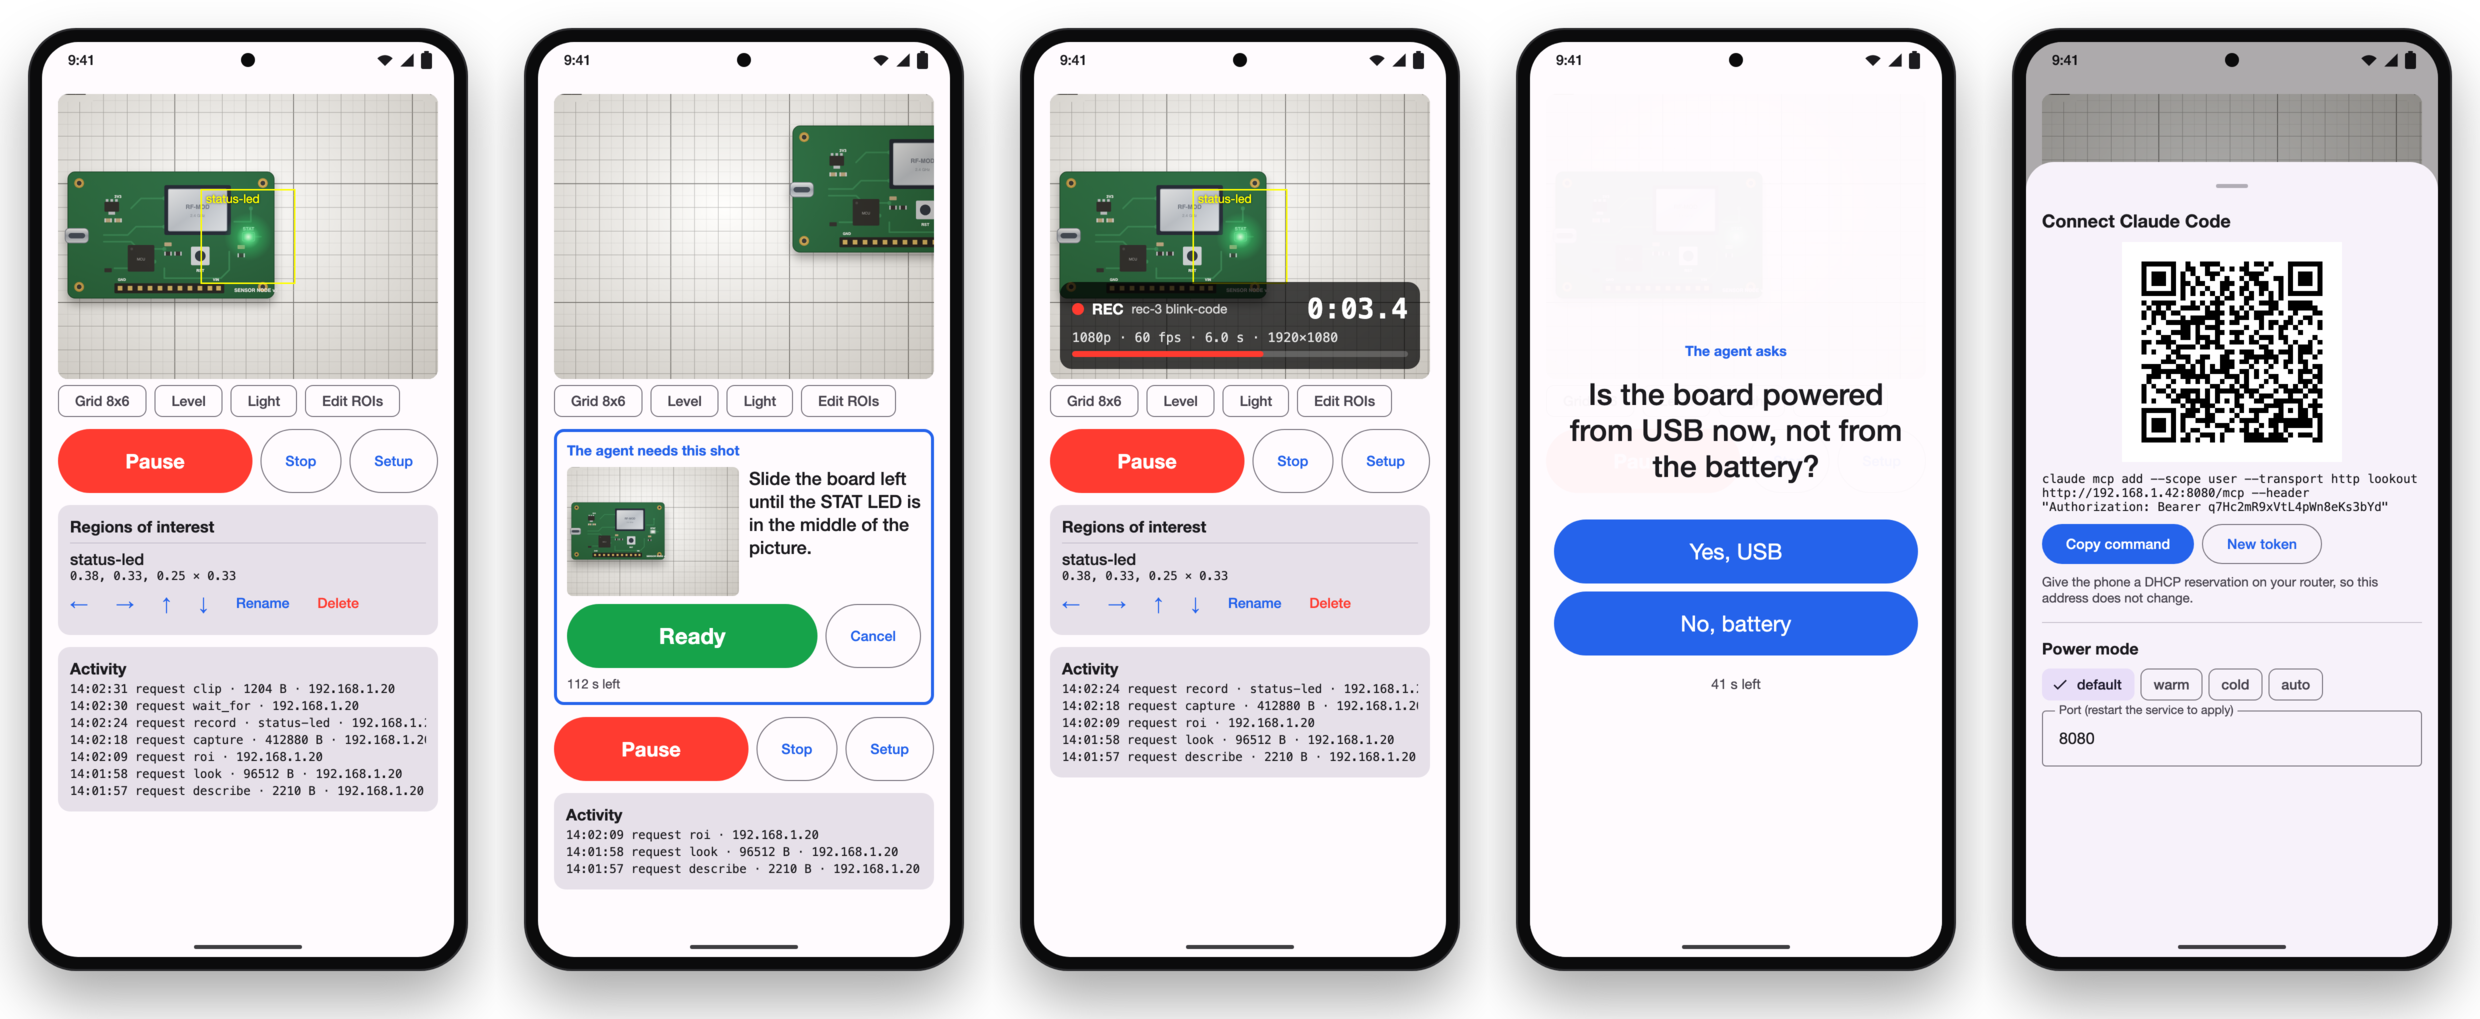
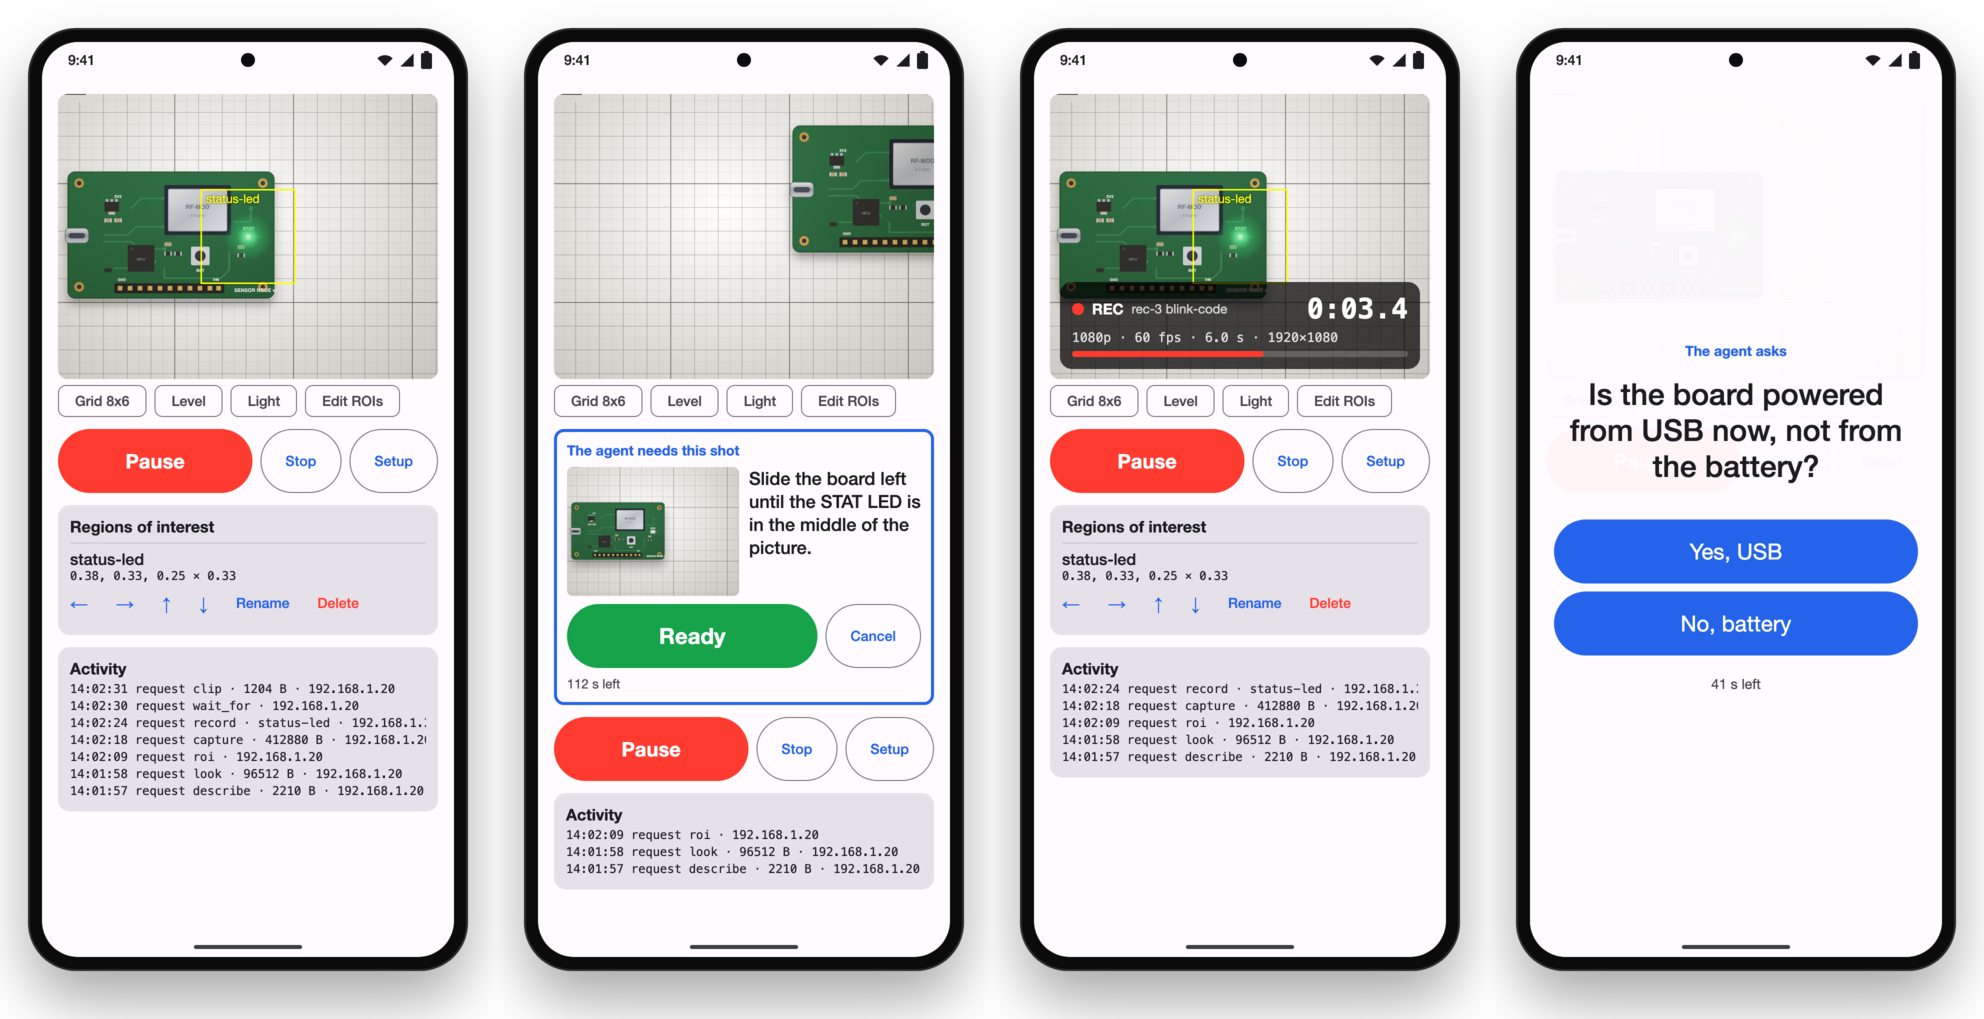
Say that Lookout works with any MCP agent
The Lookout page and its card no longer name one agent. The setup
steps use the skill and pairing, with a separate step for Tailscale.
The screenshot drops the old Setup screen with the QR code.

diff --git a/src/projects/lookout.ts b/src/projects/lookout.ts
@@ -3,9 +3,9 @@ import type { ProjectPageContent } from '../data.ts'
 export const lookout: ProjectPageContent = {
   tagline: 'Turn a spare Android phone into a camera that coding agents can see through.',
   summary: [
-    'A coding agent can build and flash firmware, but it cannot see the board. Lookout fixes that. The phone runs an MCP server on the local network, and Claude Code connects to it. Scripts can use the same features through a plain HTTP API.',
+    'A coding agent can build and flash firmware, but it cannot see the board. Lookout fixes that. The phone runs an MCP server on the local network, and it works with any agent that supports MCP. Scripts can use the same features through a plain HTTP API.',
     'The agent can take a quick look, wait for the view to change, record 60 fps video and read an LED blink code from a brightness trace, or read the numbers on a meter display with on-device OCR. It can also talk to the person at the desk: show a question on the phone, ask them to center a part, or draw arrows on the preview to show where to act.',
-    'In the film, the phone joins a Tailscale network, one command installs the Lookout skill, and the agent pairs with the phone after the person checks a code. Then Claude Code asks the person to center the STAT LED, records 6 seconds at 60 fps, reads the blink code, and finds the fault.',
+    'In the film, the phone joins a Tailscale network, one command installs the Lookout skill, and the agent pairs with the phone after the person checks a code. Then the agent asks the person to center the STAT LED, records 6 seconds at 60 fps, reads the blink code, and finds the fault.',
   ],
   status: 'Personal project, in use',
   license: 'MIT',
@@ -16,7 +16,7 @@ export const lookout: ProjectPageContent = {
     sound: true,
     src: '/media/lookout/demo.mp4',
     poster: '/media/lookout/demo-poster.webp',
-    alt: 'A 104 second narrated film. The phone joins a Tailscale network, and Claude Code installs the Lookout skill, finds the phone, and pairs with it after the person checks a code. Then it looks at a circuit board through the phone, asks the person to center the STAT LED, records it at 60 fps, and reads the blink code to find the fault.',
+    alt: 'A 104 second narrated film. The phone joins a Tailscale network, and a coding agent installs the Lookout skill, finds the phone, and pairs with it after the person checks a code. Then it looks at a circuit board through the phone, asks the person to center the STAT LED, records it at 60 fps, and reads the blink code to find the fault.',
     width: 1920,
     height: 1080,
   },
@@ -24,8 +24,8 @@ export const lookout: ProjectPageContent = {
     {
       kind: 'image',
       src: '/media/lookout/phone-screens.webp',
-      alt: 'Five phone screens: the live preview with a named region and the activity feed, a guide that shows the shot the agent wants, a recording countdown, a full-screen question, and Setup with a QR code and the claude mcp add command.',
-      width: 2480,
+      alt: 'Four phone screens: the live preview with a named region and the activity feed, a guide that shows the shot the agent wants, a recording countdown, and a full-screen question.',
+      width: 1984,
       height: 1019,
     },
     {
@@ -96,13 +96,13 @@ cd lookout
       body: 'Allow the camera. Turn off battery optimization when the checklist asks.',
     },
     {
-      title: 'Connect Claude Code',
-      body: 'Tap Setup on the phone, copy the `claude mcp add` command, and run it on your computer. Give the phone a DHCP reservation on your router, so its address does not change.',
+      title: 'Connect an agent',
+      body: 'Lookout works with any agent that supports MCP. Install the skill where the agent runs, then ask the agent to find the phone and pair. Compare the code that the agent shows with the code on the phone, then tap Allow.',
+      code: 'npx skills add gstark/lookout',
     },
     {
-      title: 'Or pair an agent on another machine',
-      body: 'Install Tailscale on the phone, then turn on Allow Tailscale in Setup. Install the skill where the agent runs. The agent finds the phone and asks to pair. Compare the code that the agent shows with the code on the phone, then tap Allow.',
-      code: 'npx skills add gstark/lookout',
+      title: 'Reach the phone from another machine',
+      body: 'Install Tailscale on the phone, then turn on Allow Tailscale in Setup. An agent on any machine in your tailnet can then find the phone and pair.',
     },
   ],
 }

diff --git a/src/data.ts b/src/data.ts
@@ -101,7 +101,7 @@ export const featured: FeaturedProject[] = [
     icon: Camera,
     language: 'Kotlin',
     description:
-      'Android app that turns a spare phone into a camera for coding agents. Claude Code connects over MCP to look, record, read displays, and ask the person at the desk for help.',
+      'Android app that turns a spare phone into a camera for coding agents. Any agent that supports MCP can look, record, read displays, and ask the person at the desk for help.',
   },
   {
     name: 'decent_job',
